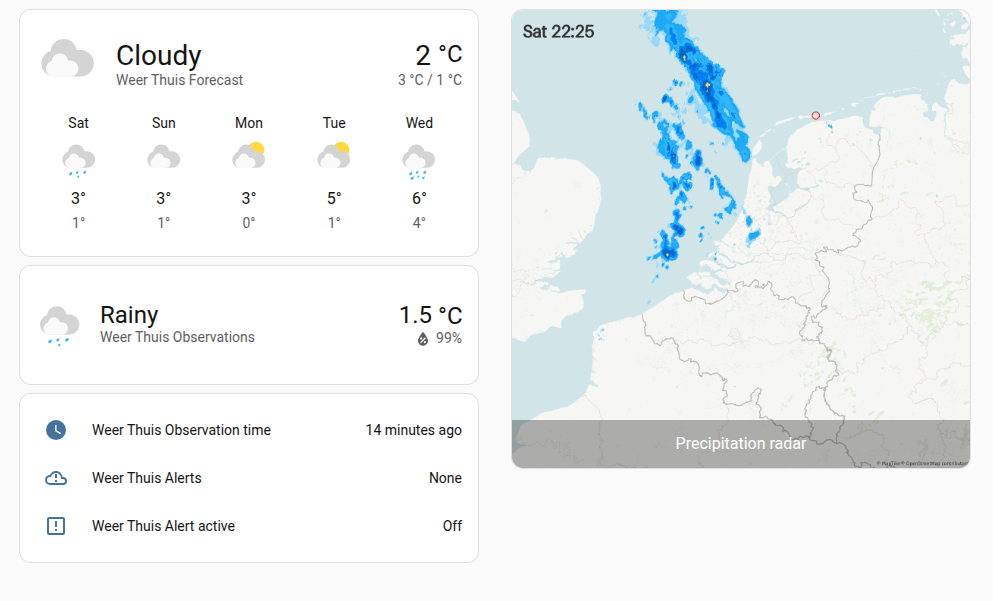
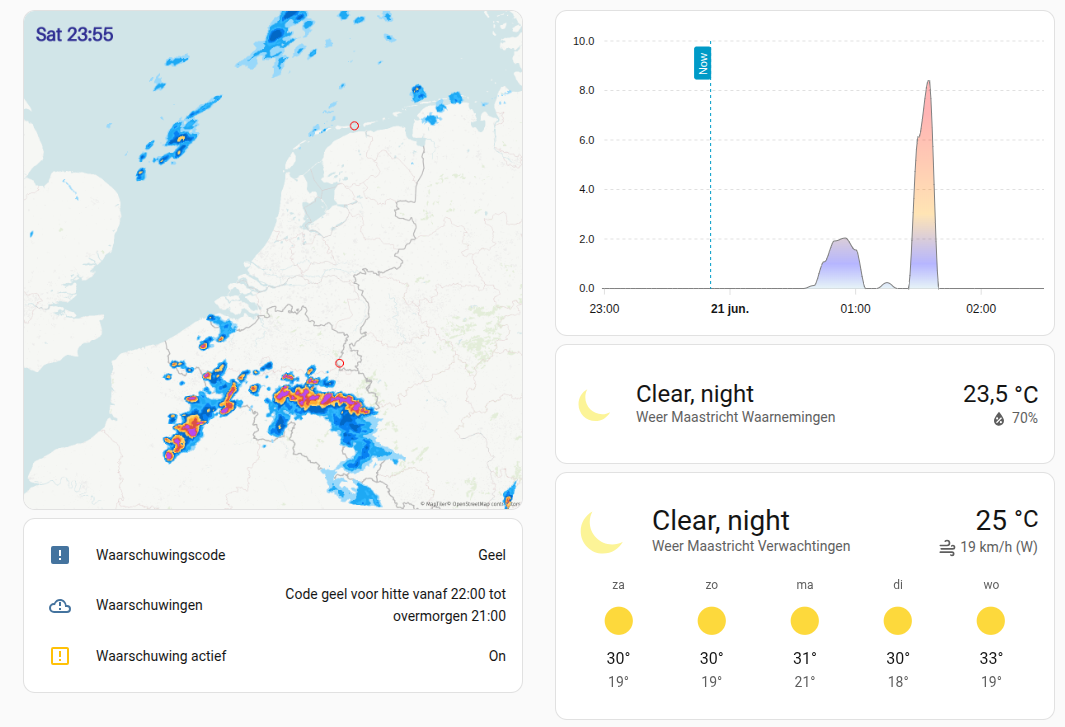
More README updates

diff --git a/README.md b/README.md
@@ -13,7 +13,7 @@ _Using default cards and radar in bright color theme_
 ![Screenshot of NL Weather with dark mode radar](images/nl-weather-dark.png "NL Weather integration")
 
 _In this screenshot the custom card [Weather Forecast Extended](https://github.com/Thyraz/weather-forecast-extended) 
-is used to display the forecast, warnings and observations. For the radar image the “Picture with entity” card is used._ 
+is used to display the forecast and nowcast. For the radar image the “Picture with entity” card is used._ 
 
 ## Features
 
@@ -94,14 +94,16 @@ The integration creates the following entities for each configured location:
 
 - `weather.weer_{location}_observations` for current weather observations
 - `weather.weer_{location}_forecast` for the weather forecast
-  - This entity also supports the service call `get_minute_forecast` to get the precipitation nowcast
+  - This entity also supports the service call `get_minute_forecast` to get the precipitation nowcast.
 
 ### Sensor entities
+
+![Screenshot of precipitation nowcast](images/sensors.png "Precipitation Nowcast")
 
 - Weather alert text and alert level
 - Forecast temperature sensors for today's and tomorrow's highs and lows
 - Precipitation forecast binary sensor 
-  - Nowcast graph data stored as a sensor attribute
+  - Nowcast graph data stored as a sensor attribute `forecast` (in mm/h)
 - Observations
   - Temperature (air at 1.5 m and 10 cm and soil at -10 cm)
   - Relative humidity
@@ -136,14 +138,22 @@ The data for the graph is available in two ways:
 
 1. As service call `get_minute_forecast` to the `weather.weer_{location}_forecast` entity. 
     - This has been pruned to only include data from now onwards.
+    - At a minute interval
 2. As `forecast` attribute to the `sensor.weer_{location}_precipitation_expected` sensor. 
     - Use the HA Developer Tools to inspect the sensor
+    - This contains also data from the past
+    - At a 5 minute interval, as the API provides.
 
-There are two good ways to render a graph from this. The first one is using [Weather Forecast Extended](https://github.com/Thyraz/weather-forecast-extended), 
-which makes use of the `get_minute_forecast` service. Refer to the configuration of that card, how to setup the nowcast entities. The second one is making use of [ApexCharts Card](https://github.com/RomRider/apexcharts-card) and render the data from the sensor. This is an example configuration:
+There are two good ways to render a graph from this. 
+
+1. Using [Weather Forecast Extended](https://github.com/Thyraz/weather-forecast-extended), 
+which makes use of the `get_minute_forecast` service. Refer to the configuration of that card, how to setup the nowcast entities. 
+2. Making use of [ApexCharts Card](https://github.com/RomRider/apexcharts-card) and render the data from the sensor. This is an example configuration:
 
 ```yaml
 type: custom:apexcharts-card
+experimental:
+  color_threshold: true
 graph_span: 3h
 span:
   start: hour
@@ -155,7 +165,7 @@ now:
   label: Now
 series:
   - entity: binary_sensor.weer_thuis_neerslag_verwacht
-    unit: mm
+    unit: mm/h
     type: area
     opacity: 0.3
     stroke_width: 1
@@ -165,9 +175,9 @@ series:
         color: lightblue
       - value: 1
         color: blue
-      - value: 10
+      - value: 3
         color: orange
-      - value: 25
+      - value: 7
         color: red
     data_generator: |
       const data = entity.attributes.forecast || [];
@@ -175,6 +185,31 @@ series:
         new Date(p.datetime).getTime(),
         p.precipitation ?? 0
       ]);
+```
+To make something like this:
+
+![Screenshot of precipitation nowcast](images/nowcast.png "Precipitation Nowcast")
+
+### Creating a precipitation expected sensor with a custom threshold
+
+The default `sensor.weer_{location}_precipitation_expected` will trigger at any precipitation (e.g 0.1 mm/h). If you like a higher threshold, you can add this templated binary sensor in your `configuration.yaml`:
+
+```yaml
+template:
+  - binary_sensor:
+      - name: "Precipitation Expected (2 mm/h threshold)"
+        unique_id: weer_home_precipitation_expected_threshold
+        state: >
+          {% set threshold = 2 %}
+          {% set now = now() %}
+          {% set nowcast = state_attr('binary_sensor.weer_home_precipitation_expected','forecast') or [] %}
+          {% set ns = namespace(rain=false) %}
+          {% for p in nowcast %}
+            {% if p.datetime > now and (p.precipitation | default(0)) > threshold %}
+              {% set ns.rain = true %}
+            {% endif %}
+          {% endfor %}
+          {{ ns.rain }}
 ```
 
 ## Contributing